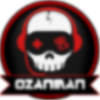
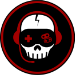
new graphics

diff --git a/index.html b/index.html
@@ -32,15 +32,16 @@ var config = {
     }
 };
 
-
 var numb = 0 ;
+var Velocity = 10;
 var background;
 var likes = [];
 var game = new Phaser.Game(config);
 var isGameStarted = false;
 function preload ()
 {
-    this.load.image('background', 'background.jpg');
+    this.load.image('background', 'background.png');
+    this.load.image('ground', 'ground.png');
     this.load.image('ozanman', 'ozanman.png');
     this.load.image('brick','brick.png');
     this.load.image('paddle','paddle.png');
@@ -49,22 +50,27 @@ function preload ()
 
 function create ()
 {
+
+
     background = this.add.image(window.innerWidth / 2, window.innerHeight / 2,'background');
     background.setDisplaySize(window.innerWidth,window.innerHeight);
     this.physics.world.setBoundsCollision(true, true, true, false);
     
     bricks = this.physics.add.staticGroup();
     for (let i = 1; i < 4; i++) {
-        for(let j = 0 ; j < 7; j++ ){
-       bricks.create((window.innerWidth / 8) + (j * (window.innerWidth / 8)), i *(100), 'brick');
+        for(let j = 0 ; j < 10; j++ ){
+       bricks.create((window.innerWidth / 11) + (j * (window.innerWidth / 11)), i *(100), 'brick');
                    }
     }
     ball = this.physics.add.image(window.innerWidth / 2, window.innerHeight - 100,'ozanman').setCollideWorldBounds(true).setBounce(1);
-    
+    floor = this.physics.add.image(window.innerWidth/2,window.innerHeight ,'ground');
+    floor.setDisplaySize(window.innerWidth,10);
+    floor.setImmovable();
     paddle = this.physics.add.image(window.innerWidth / 2, window.innerHeight - 25, 'paddle').setImmovable();
     
     this.physics.add.collider(ball, bricks, hitBrick, null, this);
     this.physics.add.collider(ball, paddle, hitPaddle, null, this);
+    this.physics.add.collider(ball, floor, gameOver, null, this);
 
     
     
@@ -84,7 +90,7 @@ function update ()
             ball.setVelocity(-75, -300);
             isGameStarted = true;
         }
-        paddle.setVelocityX(-600);
+        paddle.setVelocityX(-600 - Velocity);
         
         
     }
@@ -94,7 +100,7 @@ function update ()
             ball.setVelocity(-75, -300);
             isGameStarted = true;
         }
-        paddle.setVelocityX(600);
+        paddle.setVelocityX(600 + Velocity);
         
         
     }
@@ -111,7 +117,11 @@ function resetBall()
     this.ball.setPosition(this.paddle.x, 500);
     this.ball.setData('onPaddle', true);
 }
-
+function gameOver()
+{
+    console.log("gameover");
+    this.physics.pause();
+}
  function hitBrick(ball, brick)
 {
 
@@ -135,23 +145,25 @@ function hitLike(like, paddle)
 {
 
     like.disableBody(true,true);
+    
 
 }
 function hitPaddle(ball, paddle)
 {
     var diff = 0;
-    
+    Velocity = Velocity + 30;
+    console.log(Velocity);
     if (ball.x < paddle.x)
     {
         //  Ball is on the left-hand side of the paddle
         diff = paddle.x - ball.x;
-        ball.setVelocityX(-5 * diff);
+        ball.setVelocityX((-5 * diff) - Velocity );
     }
     else if (ball.x > paddle.x)
     {
         //  Ball is on the right-hand side of the paddle
         diff = ball.x -paddle.x;
-        ball.setVelocityX(5 * diff);
+        ball.setVelocityX((5 * diff) + Velocity);
     }
     else
     {
